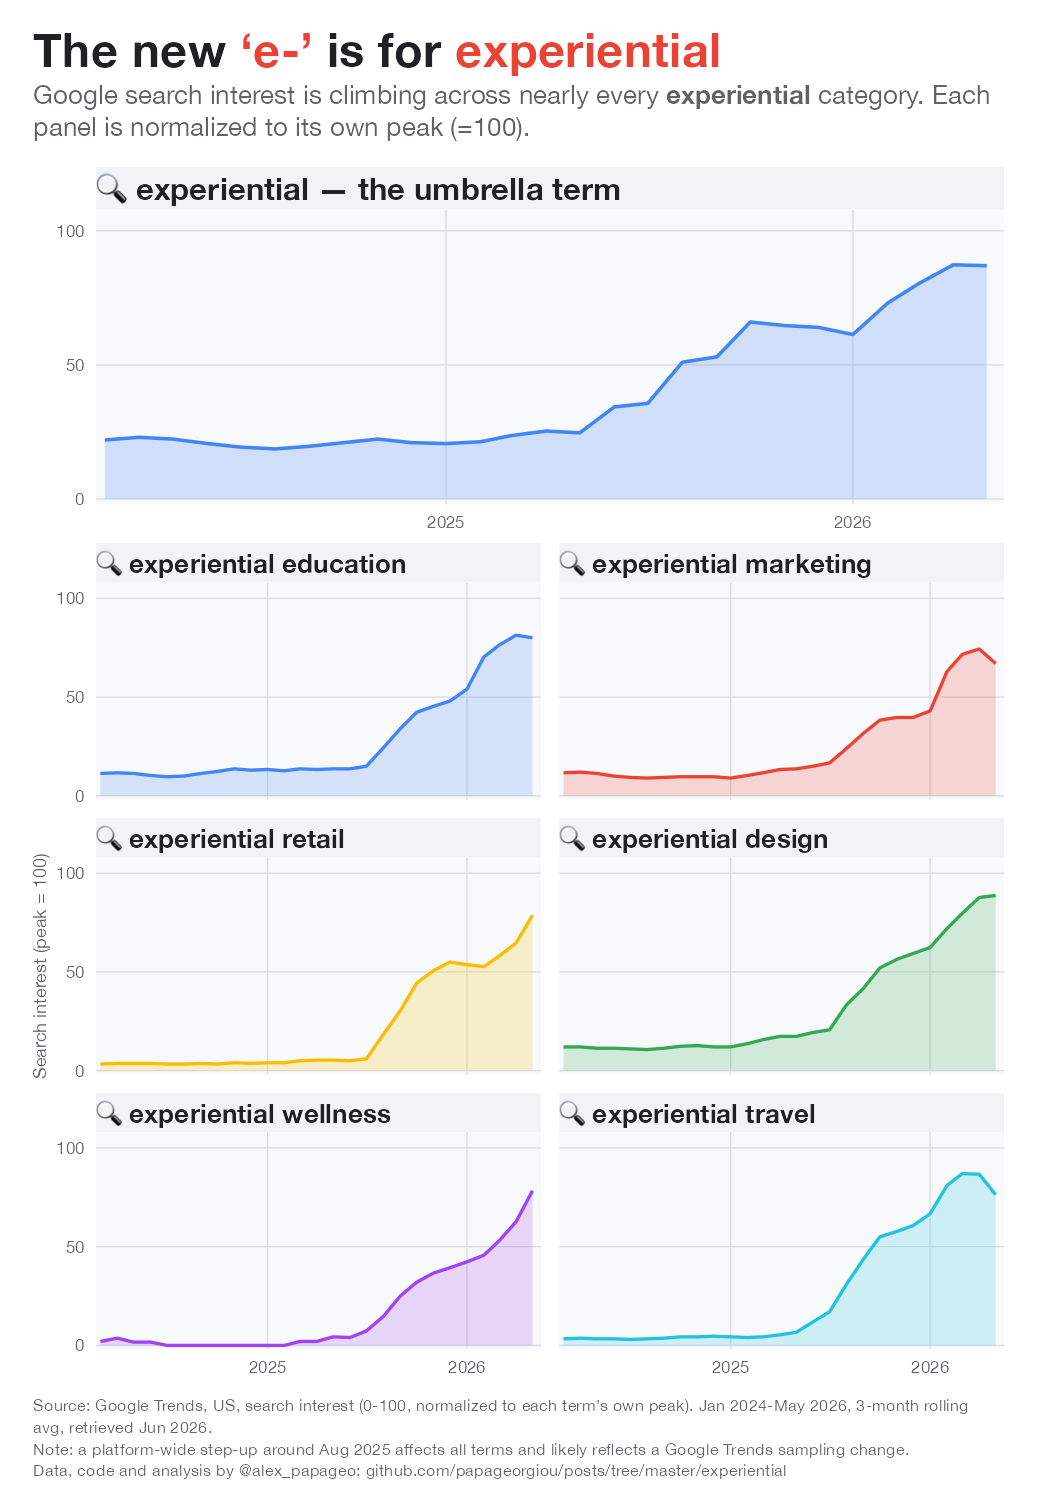
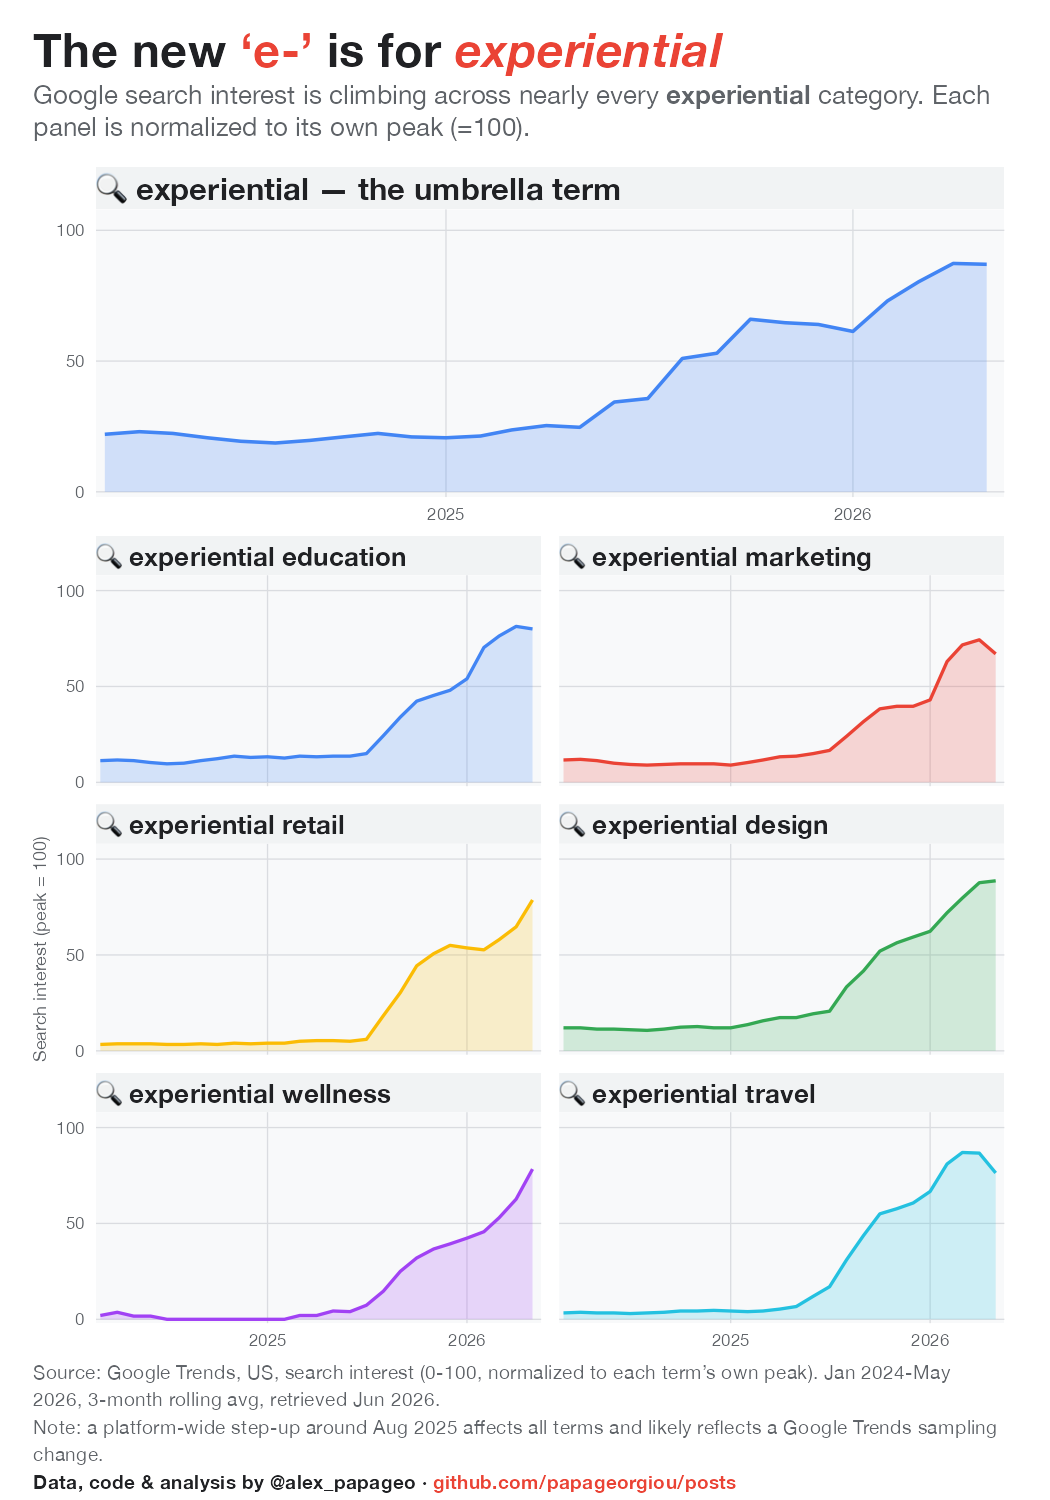
More visible caption, italic title word, short LinkedIn drafts
- Caption: bumped size to 9.5 and made the byline + GitHub link the most
  visible part of the footer (bold, accent-coloured link) via a per-style
  cap_for() so colours adapt to light/dark variants.
- Title: "experiential" now rendered in italic (kept the accent red).
- Added four short LinkedIn drafts (nostalgia, reversal, builder, shortest)
  that lean on the chart for detail, alongside the existing long versions.

Claude-Session: https://claude.ai/code/session_011mte3bMD8FD5sPpHTJ4yTJ

diff --git a/experiential/experiential_linkedin_post.md b/experiential/experiential_linkedin_post.md
@@ -11,6 +11,56 @@ categories at once, so read the lines as direction, not precise growth.
 
 ---
 
+# Short versions (chart carries the detail)
+
+Four tight angles to pair with the facet chart. Pick one.
+
+## Short 1 — Nostalgia (closest to the original draft)
+
+In the early 2000s, everything was turning into an e-something. E-commerce. E-learning. E-cards. If you could digitize it, you put an "e-" in front of it.
+
+We finished that job. Almost everything is digital now.
+
+So the prefix is changing. The new "e-" is for experiential. I pulled Google search interest across nine "experiential X" categories, from travel to retail to dating. Nearly all of them are climbing.
+
+People digitized their lives. Now they are paying to step away from the screen.
+
+## Short 2 — The reversal
+
+We spent 20 years moving everything onto a screen. E-commerce, e-learning, e-everything.
+
+Now people are paying to go the other way.
+
+I tracked Google search interest for nine "experiential X" terms. Experiential travel, retail, education, wellness, dating, and more. The lines all point up.
+
+Same "e-", opposite direction. The first one was about convenience. This one is about being there in person.
+
+## Short 3 — Builder angle
+
+If you could digitize it in the 2000s, there was a business in it. E-commerce, e-learning, e-cards. That land grab is mostly over.
+
+The next one shows up in the search data, and it points the other way. The new "e-" is for experiential.
+
+I pulled Google search interest across nine "experiential X" categories. Travel, retail, marketing, wellness, dating, and more, all climbing.
+
+The bet underneath all of them is the same: people will pay more for something they take part in than for something they passively receive.
+
+Which of these grows the most over the next three years?
+
+## Short 4 — Shortest
+
+The new "e-" is for experiential.
+
+In the early 2000s we put an "e-" on everything we could digitize. E-commerce, e-learning, e-cards. That work is done.
+
+Now the same prefix means the opposite. I tracked Google search interest for nine "experiential X" terms, from travel to dating. Almost all of them are rising.
+
+We digitized everything. Now we want to feel it in person again.
+
+---
+
+# Long versions (full category breakdown)
+
 ## Version 1 — The new "e-" era (naming / nostalgia angle)
 
 "Hi, it's nice to e-meet you!"
